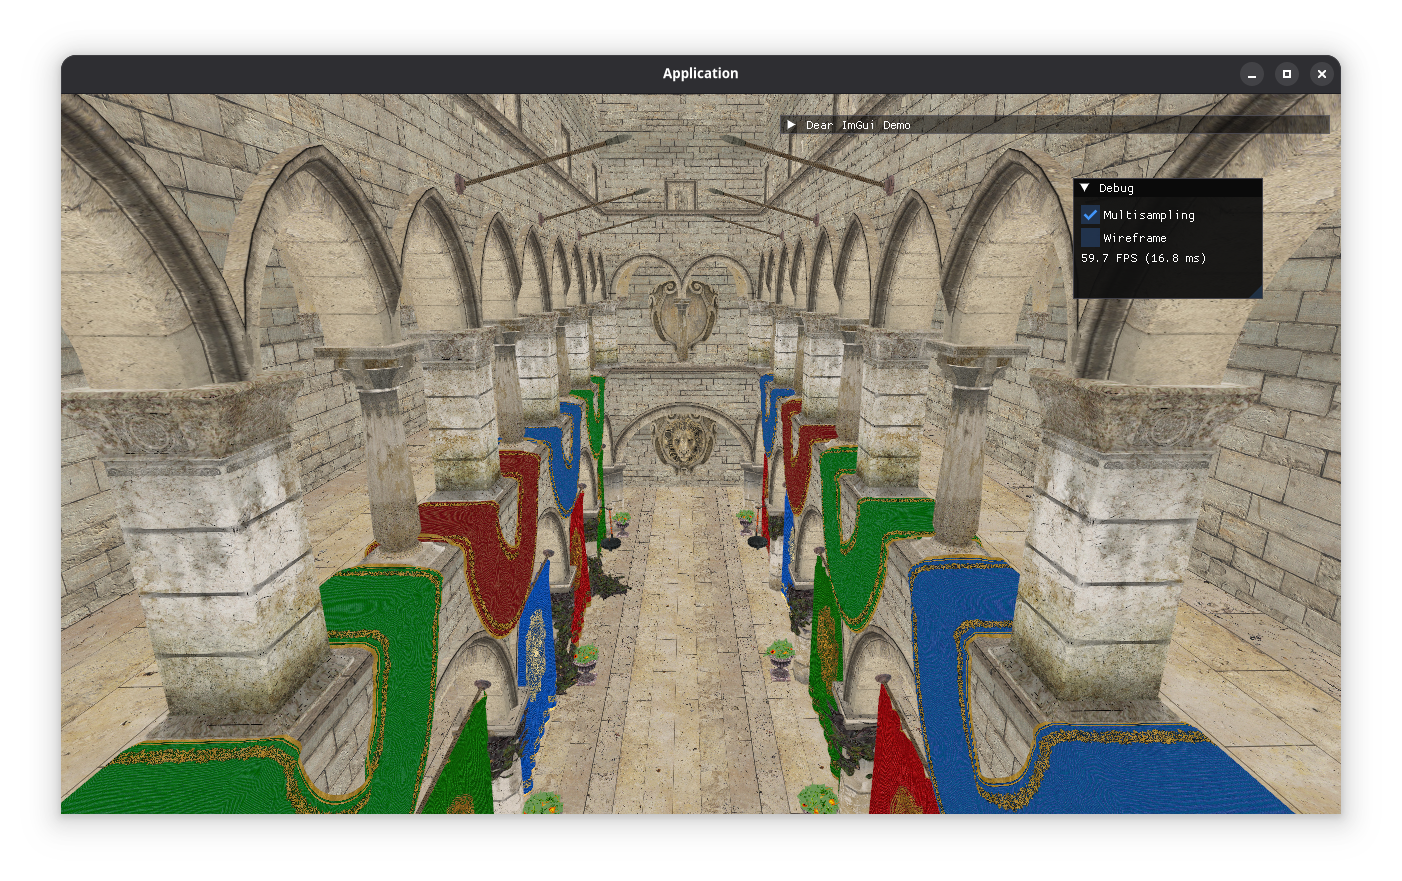
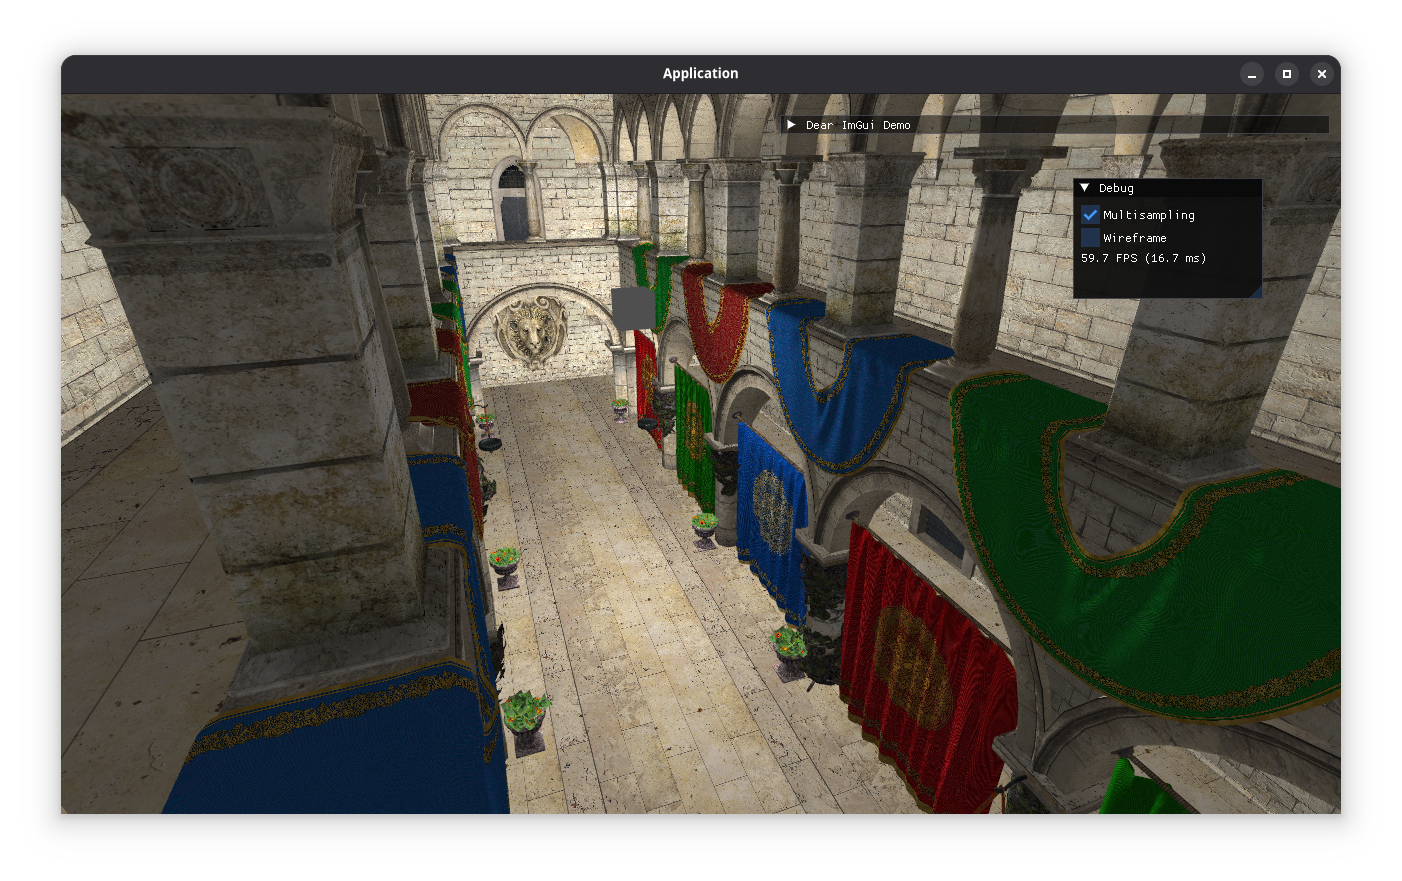
add basic phong lighting

diff --git a/src/engine.cpp b/src/engine.cpp
@@ -40,24 +40,12 @@ void Engine::init(std::string title, float width, float height)
 
     glfwSetWindowUserPointer(window, static_cast<void *>(this));
 
-    std::vector<int> keys = {
-        GLFW_KEY_ESCAPE,
-        GLFW_KEY_E,
-        GLFW_KEY_A,
-        GLFW_KEY_D,
-        GLFW_KEY_S,
-        GLFW_KEY_W,
-        GLFW_KEY_LEFT_SHIFT,
-        GLFW_KEY_SPACE,
-    };
-
-    Input::getSingleton()->registerKeys(keys);
     Input::getSingleton()->setCallbacks(window);
 
     // load renderer and models textures and so forth
     renderer.init(window);
 
-    loadAssets();
+    loadResources();
 
     renderer.setupBuffers();
 
@@ -103,17 +91,27 @@ void Engine::render()
     glm::mat4 view = camera.getViewMatrix();
     glm::mat4 projection = glm::perspective(glm::radians(60.0f), width / float(height), 0.1f, 100.0f);
 
-    if (auto meshShader = ResourceManager::getShader("mesh"); meshShader != nullptr) {
-        meshShader->use();
-        meshShader->setMatrix("view", view);
-        meshShader->setMatrix("projection", projection);
-        meshShader->setInt("useTex", true);
-    } else {
-        Logger::print(LOG_WARNING, "Failed to get main shader.");
+    // meshes with textures and lighting
+    if (auto shader = ResourceManager::getShader("mesh"); shader != nullptr) {
+        shader->use();
+        shader->setMatrix("view", view);
+        shader->setMatrix("projection", projection);
+        shader->setVector("light.pos", light.pos);
+        shader->setVector("light.color", light.color);
+
+        renderer.renderModel(shader, ResourceManager::getModel("sponza"));
+
+        auto lightModel = ResourceManager::getModel("cube");
+        lightModel->transform.setTranslation(light.pos);
+        lightModel->transform.setScale(vec3(0.2));
+        lightModel->modelMatrix = lightModel->transform.getModelMatrix();
+
+        renderer.renderModel(shader, lightModel);
     }
 
-    renderer.renderModel(ResourceManager::getShader("mesh"), ResourceManager::getModel("sponza"));
-    // renderer.renderText(ResourceManager::getShader("text"), ResourceManager::getFont("font"), "Test", vec2(10, 10), 20, vec3(1, 0, 0));
+    // TODO: not working
+    // renderer.renderText(ResourceManager::getShader("text"), ResourceManager::getFont("font"), "Test", vec2(10, 10), 1.0, vec3(1, 0, 0));
+
     renderer.renderImGui();
 }
 
@@ -139,24 +137,34 @@ void Engine::updateInput(double dt)
     if (input->isKeyPressed(GLFW_KEY_ESCAPE)) {
         glfwSetWindowShouldClose(window, true);
     }
+    if (input->isKeyPressed(GLFW_KEY_R)) {
+        loadShaders(true);
+    }
 
     camera.update(dt);
-
-    // update previous input state
     input->update();
 }
 
-void Engine::loadAssets()
+void Engine::loadResources()
 {
     // shaders
-    ResourceManager::loadShader("mesh", "mesh.vert", "mesh.frag");
-    ResourceManager::loadShader("text", "text.vert", "text.frag");
+    loadShaders(false);
 
     // fonts
     ResourceManager::loadFont("font", "Tiny5-Regular.ttf", 48);
 
     // models
     ResourceManager::loadModel("sponza", "sponza/Sponza.gltf", renderer);
+    ResourceManager::loadModel("cube", "primitives/cube.glb", renderer);
+
+    light = {vec3(0.0, 4.0, 0.0), vec3(1.0)};
+}
+
+void Engine::loadShaders(bool reload)
+{
+    ResourceManager::loadShader("mesh", "mesh.vert", "mesh.frag", reload);
+    ResourceManager::loadShader("color", "color.vert", "color.frag", reload);
+    ResourceManager::loadShader("text", "text.vert", "text.frag", reload);
 }
 
 void Engine::framebufferSizeCallback(GLFWwindow *window, int width, int height)

diff --git a/src/render/resource_manager.cpp b/src/render/resource_manager.cpp
@@ -6,12 +6,14 @@ std::map<std::string, Texture> ResourceManager::textures;
 std::map<std::string, Model> ResourceManager::models;
 std::map<std::string, Font> ResourceManager::fonts;
 
-Shader *ResourceManager::loadShader(std::string name, std::string vertexPath, std::string fragmentPath)
+Shader *ResourceManager::loadShader(std::string name, std::string vertexPath, std::string fragmentPath, bool force)
 {
     vertexPath = std::filesystem::path("res/shaders") / vertexPath;
     fragmentPath = std::filesystem::path("res/shaders") / fragmentPath;
 
-    if (ResourceManager::shaders.find(name) != ResourceManager::shaders.end())
+    Logger::print(LOG_INFO, "Loading shader ", name);
+
+    if (!force && ResourceManager::shaders.find(name) != ResourceManager::shaders.end())
         return &ResourceManager::shaders[name];
 
     // TODO: add support for different shaders, not only vertex and fragment
@@ -58,7 +60,7 @@ Texture *ResourceManager::getTexture(std::string name)
         return &ResourceManager::textures[name];
     }
     else {
-        Logger::print(LOG_WARNING, "Couldn't find texture ", name);
+        Logger::print(LOG_WARNING, "Failed to find texture ", name);
         return nullptr;
     }
 }
@@ -87,7 +89,7 @@ Model *ResourceManager::getModel(std::string name)
         return &ResourceManager::models[name];
     }
     else {
-        Logger::print(LOG_WARNING, "Couldn't find model ", name);
+        Logger::print(LOG_WARNING, "Failed to find model ", name);
         return nullptr;
     }
 }
@@ -116,7 +118,7 @@ Font *ResourceManager::getFont(std::string name)
         return &ResourceManager::fonts[name];
     }
     else {
-        Logger::print(LOG_WARNING, "Couldn't find font ", name);
+        Logger::print(LOG_WARNING, "Failed to find font ", name);
         return nullptr;
     }
 }

diff --git a/src/render/renderer.cpp b/src/render/renderer.cpp
@@ -43,7 +43,7 @@ void Renderer::renderMesh(Shader *shader, Mesh mesh)
     }
 
     glActiveTexture(GL_TEXTURE0);
-    mesh.material.diffuse.bind();
+    mesh.material.ambient.bind();
     shader->setInt("material.ambient", 0);
 
     glActiveTexture(GL_TEXTURE1);
@@ -64,6 +64,8 @@ void Renderer::renderModel(Shader *shader, Model *model)
         Logger::print(LOG_WARNING, "Failed to render model.");
         return;
     }
+
+    // model->modelMatrix *= model->transform.getModelMatrix();
 
     shader->use();
     shader->setMatrix("model", model->modelMatrix);
@@ -95,8 +97,8 @@ void Renderer::renderText(Shader *shader, Font *font, std::string text, vec2 pos
 
     for (auto &newIndex : newIndices) {
         newIndex += vertexOffset;
+        indices.push_back(newIndex);
     }
-    indices.insert(indices.end(), newIndices.begin(), newIndices.end());
 
     uint32_t indexCount = newIndices.size();
 
@@ -124,6 +126,9 @@ void Renderer::renderText(Shader *shader, Font *font, std::string text, vec2 pos
             {{pos.x + size.x, pos.y + size.y, 0.0f},  {1.0f, 0.0f}, {0.0f, 0.0f, -1.0f}},
         };
         glBindTexture(GL_TEXTURE_2D, ch.textureID);
+
+        glBindBuffer(GL_ARRAY_BUFFER, VBO);
+        glBufferSubData(GL_ARRAY_BUFFER, 0, sizeof(vertices), vertices.data());
 
         glDrawElements(GL_TRIANGLES, indexCount, GL_UNSIGNED_INT, (void*)(indexOffset * sizeof(GLuint)));
 

diff --git a/src/core/input.cpp b/src/core/input.cpp
@@ -16,12 +16,6 @@ Input *Input::getSingleton()
     return singletonInstance;
 }
 
-void Input::registerKeys(std::vector<int> keys) {
-    for (const int &key : keys) {
-        currentKeyState[key] = false;
-    }
-}
-
 void Input::update()
 {
     previousKeyState = currentKeyState;
@@ -40,9 +34,7 @@ bool Input::isKeyPressed(int key)
 
 void Input::setKey(int key, bool state)
 {
-    if (currentKeyState.find(key) != currentKeyState.end()) {
-        currentKeyState[key] = state;
-    }
+    currentKeyState[key] = state;
 }
 
 void Input::setCallbacks(GLFWwindow *window)

diff --git a/src/render/resource_manager.h b/src/render/resource_manager.h
@@ -19,7 +19,7 @@ public:
     static std::map<std::string, Model> models;
     static std::map<std::string, Font> fonts;
 
-    static Shader *loadShader(std::string name, std::string vsPath, std::string fsPath);
+    static Shader *loadShader(std::string name, std::string vsPath, std::string fsPath, bool force = false);
     static Shader *getShader(std::string name);
     static Texture *loadTexture(std::string name, std::string path);
     static Texture *getTexture(std::string name);

diff --git a/src/engine.h b/src/engine.h
@@ -28,7 +28,8 @@ private:
     void destroy();
     void updateInput(double dt);
 
-    void loadAssets();
+    void loadResources();
+    void loadShaders(bool reload = false);
 
     static void framebufferSizeCallback(GLFWwindow *window, int width, int height);
     static void mouseCallback(GLFWwindow *window, double xPos, double yPos);
@@ -38,6 +39,8 @@ private:
 
     Renderer renderer;
     Camera camera;
+
+    Light light;
 
     bool isInitialized = false;
 };

diff --git a/src/core/transform.h b/src/core/transform.h
@@ -10,7 +10,7 @@ public:
     void rotate(quat rotation);
     void scale(vec3 scale);
 
-    void setPosition(vec3 position);
+    void setTranslation(vec3 position);
     void setRotation(float angle, vec3 axis);
     void setRotation(quat rotation);
     void setScale(vec3 scale);

diff --git a/src/core/transform.cpp b/src/core/transform.cpp
@@ -20,7 +20,7 @@ void Transform::scale(vec3 scale)
     mScale *= scale;
 }
 
-void Transform::setPosition(vec3 position)
+void Transform::setTranslation(vec3 position)
 {
     mTranslation = position;
 }

diff --git a/src/core/types.h b/src/core/types.h
@@ -22,3 +22,9 @@ struct Mesh
     uint32_t indexOffset;
     uint32_t indexCount;
 };
+
+struct Light
+{
+    vec3 pos;
+    vec3 color;
+};
